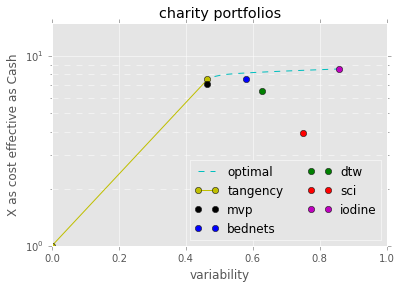
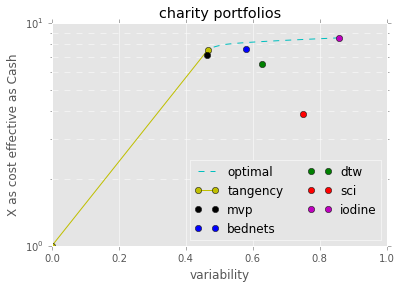
minor scaling fixes

diff --git a/ea_params.py b/ea_params.py
@@ -69,6 +69,7 @@ if __name__ == '__main__':
         'Relative value of year of deworming treatment to development benefits from year of bednet coverage':  {'dist': 'array', 'val': [2.0, 1.0, 1.5, 2.0, 1.0, 2.0, 3.0, 2.0, 1.5, 1.0]}, \
         'Alternative funders adjustment': {'dist': 'array', 'val': [0.75, 0.86, 0.85, 0.85, 0.86, 0.86, 0.75, 0.86, 0.86, 0.86]}}
     
+    # added random iodine parameters for six missing gw staff
     iodine = {'Cost per person per year': {'dist': 'array', 'val': [0.1, 0.1, 0.08, 0.08, 0.08, 0.08, 0.05, 0.05, 0.1, 0.1]}, \
         'Replicability': {'dist': 'array', 'val': [0.8, 0.7, 0.9, 0.8, 0.8, 0.8, 0.6, 0.6, 0.7, 0.7]}, \
         'External validity': {'dist': 'array', 'val': [0.7, 0.7, 0.7, 0.7]}, \

diff --git a/ea_portfolio.py b/ea_portfolio.py
@@ -17,8 +17,6 @@ solvers.options['show_progress'] = False
 
 import pandas as pd
 
-import datetime as dt
-
 def portfolio_solver(S, p=np.empty(0), r=0.0):
     n = S.shape[0]    
     
@@ -88,7 +86,7 @@ if __name__ == '__main__':
     # plot
     colors = ['b', 'g', 'r', 'm']
     plt.figure(0)
-    plt.axis([0.0, 1, 1, 15])
+    plt.axis([0.0, 1, 1, 10])
     plt.semilogy(va, np.exp(ra), '--', label='optimal', color='c')
     plt.semilogy([0, vt], np.exp([0, rt]), 'o-', label='tangency', color='y')
     plt.semilogy(vm, np.exp(rm), 'o', label='mvp', color='k')
